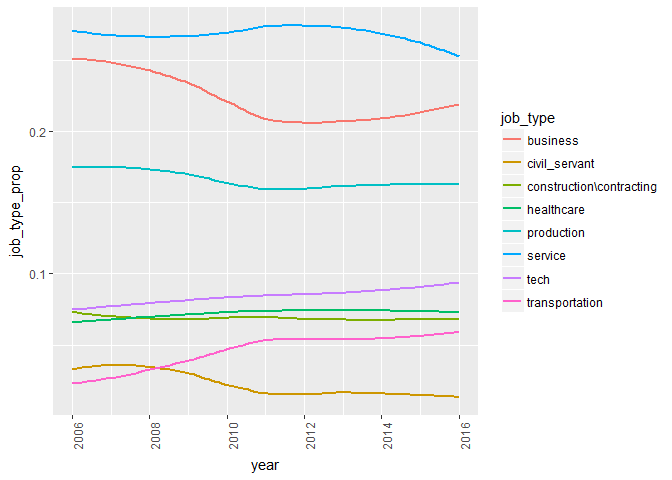
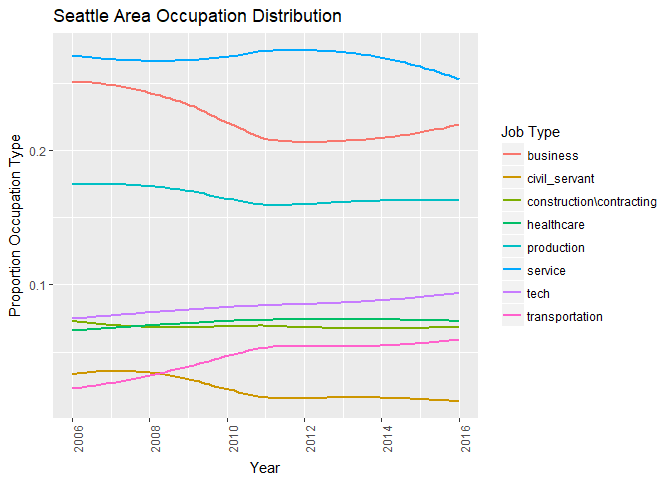
update graph prettiness

diff --git a/occupation_visualizations.md b/occupation_visualizations.md
@@ -7,24 +7,24 @@ May 3, 2018
 library(tidyverse)
 ```
 
-    ## -- Attaching packages ------------------------------------------------------------------------------------- tidyverse 1.2.1 --
+    ## -- Attaching packages -------------------------------------------------------------- tidyverse 1.2.1 --
 
     ## v ggplot2 2.2.1     v purrr   0.2.4
     ## v tibble  1.4.2     v dplyr   0.7.4
     ## v tidyr   0.7.2     v stringr 1.2.0
     ## v readr   1.1.1     v forcats 0.3.0
 
-    ## -- Conflicts ---------------------------------------------------------------------------------------- tidyverse_conflicts() --
+    ## -- Conflicts ----------------------------------------------------------------- tidyverse_conflicts() --
     ## x dplyr::filter() masks stats::filter()
     ## x dplyr::lag()    masks stats::lag()
 
 ``` r
-pdx_occupations <- read.csv("C:\\Users\\Godot\\Documents\\sd-pdx-sea\\pdx_occupations.csv")
-pdx_counties_occupations <- read.csv("C:\\Users\\Godot\\Documents\\sd-pdx-sea\\pdx_counties_occupations.csv")
-sf_occupations <- read.csv("C:\\Users\\Godot\\Documents\\sd-pdx-sea\\sf_occupations.csv")
-sf_counties_occupations <- read.csv("C:\\Users\\Godot\\Documents\\sd-pdx-sea\\sf_counties_occupations.csv")
-sea_occupations <- read.csv("C:\\Users\\Godot\\Documents\\sd-pdx-sea\\sea_occupations.csv")
-sea_counties_occupations <- read.csv("C:\\Users\\Godot\\Documents\\sd-pdx-sea\\sea_counties_occupations.csv")
+pdx_occupations <- read.csv("C:\\Users\\Godot\\Documents\\sd-pdx-sea\\Raw Data\\pdx_occupations.csv")
+pdx_counties_occupations <- read.csv("C:\\Users\\Godot\\Documents\\sd-pdx-sea\\Raw Data\\pdx_counties_occupations.csv")
+sf_occupations <- read.csv("C:\\Users\\Godot\\Documents\\sd-pdx-sea\\Raw Data\\sf_occupations.csv")
+sf_counties_occupations <- read.csv("C:\\Users\\Godot\\Documents\\sd-pdx-sea\\Raw Data\\sf_counties_occupations.csv")
+sea_occupations <- read.csv("C:\\Users\\Godot\\Documents\\sd-pdx-sea\\Raw Data\\sea_occupations.csv")
+sea_counties_occupations <- read.csv("C:\\Users\\Godot\\Documents\\sd-pdx-sea\\Raw Data\\sea_counties_occupations.csv")
 ```
 
 ``` r
@@ -37,7 +37,11 @@ pdx_class_county <- pdx_counties_occupations %>%
   ggplot(aes(x=year, y=prop_county_class, col=job_class)) +
     geom_smooth(se=F) +
     facet_wrap(~county) +
-    great_theme
+    great_theme+
+    labs(x = "Year",
+         y = "Proportion Occupation Type",
+         colour = "Job Type",
+         title = "Portland Occupation Distribution by County")
 pdx_class_county
 ```
 
@@ -52,7 +56,11 @@ pdx_sector_county <- pdx_counties_occupations %>%
   ggplot(aes(x=year, y = prop_county_type, col = job_type)) +
     geom_smooth(se=F) +
     facet_wrap(~county) +
-    theme(axis.text.x = element_text(angle = 90))
+    theme(axis.text.x = element_text(angle = 90))+
+    labs(x = "Year",
+         y = "Proportion Occupation Type",
+         colour = "Industry",
+         title = "Portland Occupation Distribution by County")
 pdx_sector_county
 ```
 
@@ -66,7 +74,11 @@ pdx_class <- pdx_occupations %>%
   mutate(year=as.integer(year)) %>%
   ggplot(aes(x=year,y=job_class_prop, col=job_class)) +
     geom_smooth(se=F) +
-    theme(axis.text.x = element_text(angle = 90))
+    theme(axis.text.x = element_text(angle = 90))+
+    labs(x = "Year",
+         y = "Proportion Occupation Type",
+         colour = "Job Type",
+         title = "Portland Occupation Distribution")
 pdx_class
 ```
 
@@ -80,7 +92,11 @@ pdx_sector <- pdx_occupations %>%
   mutate(year=as.integer(year)) %>%
   ggplot(aes(x=year, y=job_type_prop, col=job_type)) +
     geom_smooth(se=F) +
-    theme(axis.text.x = element_text(angle = 90))
+    theme(axis.text.x = element_text(angle = 90))+
+    labs(x = "Year",
+         y = "Proportion Occupation Type",
+         colour = "Job Type",
+         title = "Portland Occupation Distribution")
 pdx_sector
 ```
 
@@ -94,7 +110,11 @@ sf_class_county <- sf_counties_occupations %>%
   ggplot(aes(x=year, y=prop_county_class, col=job_class)) +
     geom_smooth(se=F) +
     facet_wrap(~county) +
-    theme(axis.text.x = element_text(angle = 90))
+    theme(axis.text.x = element_text(angle = 90))+
+    labs(x = "Year",
+         y = "Proportion Occupation Type",
+         colour = "Job Type",
+         title = "Bay Area Occupation Distribution by County")
 sf_class_county
 ```
 
@@ -132,7 +152,11 @@ sf_sector_county <- sf_counties_occupations %>%
   ggplot(aes(x=year, y = prop_county_type, col = job_type)) +
     geom_smooth(se=F) +
     facet_wrap(~county) +
-    theme(axis.text.x = element_text(angle = 90))
+    theme(axis.text.x = element_text(angle = 90))+
+    labs(x = "Year",
+         y = "Proportion Occupation Type",
+         colour = "Job Type",
+         title = "Bay Area Occupation Distribution by County")
 sf_sector_county
 ```
 
@@ -244,7 +268,11 @@ sf_sector_county
 sf_class <- sf_occupations %>%
   ggplot(aes(x=year,y=job_class_prop, col=job_class)) +
     geom_smooth(se=F) +
-    theme(axis.text.x = element_text(angle = 90))
+    theme(axis.text.x = element_text(angle = 90))+
+    labs(x = "Year",
+         y = "Proportion Occupation Type",
+         colour = "Job Type",
+         title = "Bay Area Occupation Distribution")
 sf_class
 ```
 
@@ -257,7 +285,11 @@ sf_class
 sf_sector <- sf_occupations %>%
   ggplot(aes(x=year, y=job_type_prop, col=job_type)) +
     geom_smooth(se=F) +
-    theme(axis.text.x = element_text(angle = 90))
+    theme(axis.text.x = element_text(angle = 90))+
+    labs(x = "Year",
+         y = "Proportion Occupation Type",
+         colour = "Job Type",
+         title = "Bay Area Occupation Distribution")
 sf_sector
 ```
 
@@ -271,7 +303,11 @@ sea_class_county <- sea_counties_occupations %>%
   ggplot(aes(x=year, y=prop_county_class, col=job_class)) +
     geom_smooth(se=F) +
     facet_wrap(~county) +
-    theme(axis.text.x = element_text(angle = 90))
+    theme(axis.text.x = element_text(angle = 90))+
+    labs(x = "Year",
+         y = "Proportion Occupation Type",
+         colour = "Job Type",
+         title = "Seattle Area Occupation Distribution by County")
 sea_class_county
 ```
 
@@ -285,7 +321,11 @@ sea_sector_county <- sea_counties_occupations %>%
   ggplot(aes(x=year, y = prop_county_type, col = job_type)) +
     geom_smooth(se=F) +
     facet_wrap(~county) +
-    theme(axis.text.x = element_text(angle = 90))
+    theme(axis.text.x = element_text(angle = 90))+
+    labs(x = "Year",
+         y = "Proportion Occupation Type",
+         colour = "Job Type",
+         title = "Seattle Area Occupation Distribution by County")
 sea_sector_county
 ```
 
@@ -298,7 +338,11 @@ sea_sector_county
 sea_class<- sea_occupations %>%
   ggplot(aes(x=year,y=job_class_prop, col=job_class)) +
     geom_smooth(se=F) +
-    theme(axis.text.x = element_text(angle = 90))
+    theme(axis.text.x = element_text(angle = 90))+
+    labs(x = "Year",
+         y = "Proportion Occupation Type",
+         colour = "Job Type",
+         title = "Seattle Area Occupation Distribution")
 sea_class
 ```
 
@@ -311,7 +355,11 @@ sea_class
 sea_sector<-sea_occupations %>%
   ggplot(aes(x=year, y=job_type_prop, col=job_type)) +
     geom_smooth(se=F) +
-    theme(axis.text.x = element_text(angle = 90))
+    theme(axis.text.x = element_text(angle = 90))+
+    labs(x = "Year",
+         y = "Proportion Occupation Type",
+         colour = "Job Type",
+         title = "Seattle Area Occupation Distribution")
 sea_sector
 ```
 
